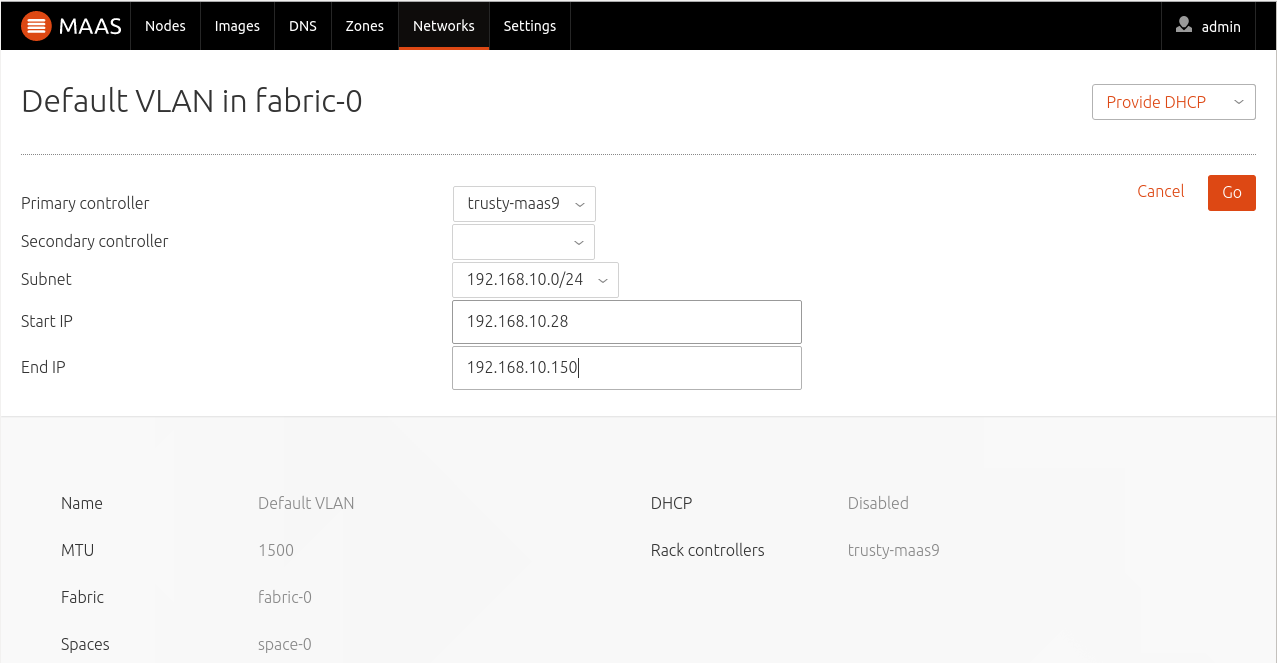
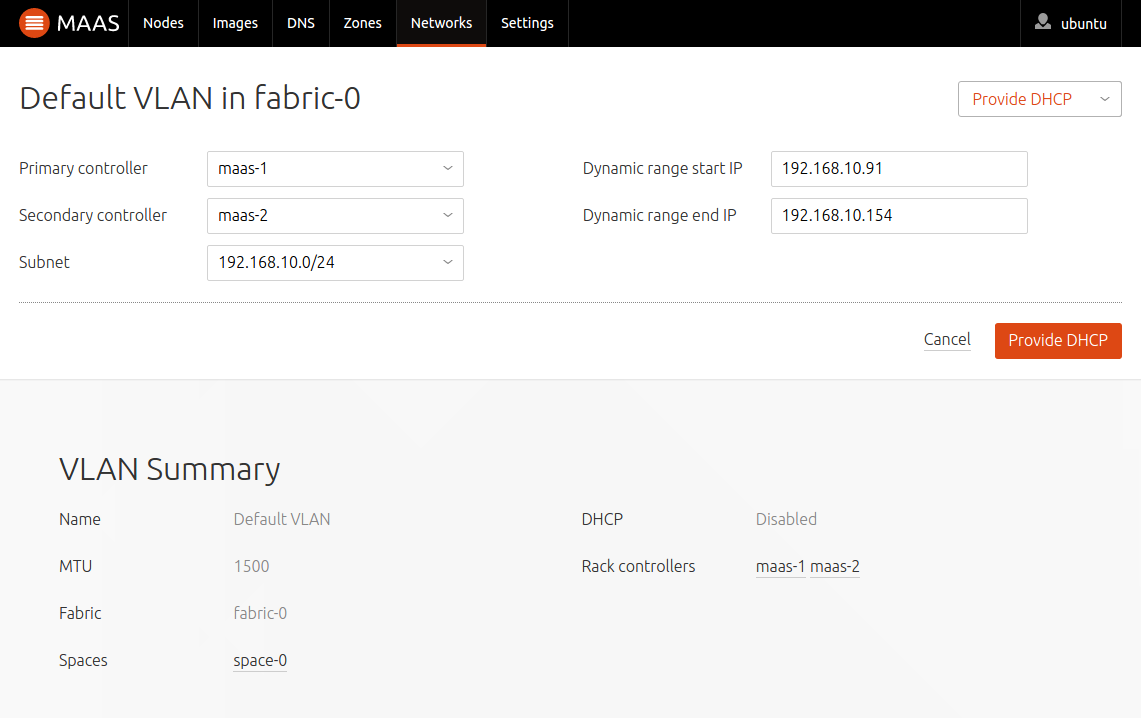
[r=mpontillo][bug=][author=blake-rouse] Document how to enable HA configuration.

diff --git a/docs/ha.rst b/docs/ha.rst
@@ -1,0 +1,286 @@
+.. -*- mode: rst -*-
+
+.. _ha:
+
+High Availability (HA) Configuration
+====================================
+
+MAAS 2.0+ supports high availability (HA) across its entire architecture. HA
+can be enabled at the rack controller level allowing the ability for
+controlling BMCs, providing DHCP, and deploying machines to span across
+multiple rack controllers. At the region controller level, HA can be provided
+for the API, WebUI, DNS, and APT proxy.
+
+
+Rack Controller HA
+------------------
+
+Rack controller HA is provided for BMCs out of the box. MAAS will
+automatically identify which rack controllers can communicate to which BMCs
+and pass BMC actions to the correct rack controllers.
+
+To provide HA for deploying machines, DHCP HA must be turned on. DHCP HA in
+MAAS allows a primary and a secondary DHCP server to run on the same VLAN. This
+allows a deploying machine to request an IP address from either DHCP server
+(primary first) for PXE booting. The responding rack controller will then
+handle PXE booting the machine and loading the required files to complete the
+deployment. All lease information will be replicated between the primary and
+secondary rack controller, allowing one rack controller to fail without
+interrupting MAAS operation.
+
+Enabling DHCP HA
+^^^^^^^^^^^^^^^^
+
+DHCP works at the VLAN level, providing interfaces connected to that VLAN the
+ability to get an IP address on a subnet. This requires a subnet be defined
+on the VLAN where DHCP will be enabled, along with a range of IPs that will be
+assigned to unknown interfaces (called the 'dynamic range'). Enabling DHCP HA
+is the same as enabling DHCP without HA; setting a secondary rack controller
+will turn DHCP HA on. Follow the instructions at :doc:`rack-configuration` to
+enable DHCP HA.
+
+
+Region Controller HA
+--------------------
+
+Region controller HA is more complicated, in that MAAS allows you to configure
+this in many different configurations. Any number of region controllers can
+be added to MAAS, as long as they connect to the same PostgreSQL database. The
+only state that is held in MAAS is in the database, allowing region controllers
+to be scaled up and scaled down at will.
+
+Initial Region Controller
+^^^^^^^^^^^^^^^^^^^^^^^^^
+
+The first step to enabling HA for the MAAS region controller is installing the
+``maas-region-controller`` package. This package configures everything for you
+to start using the MAAS region controller on one machine. It initializes a new
+database, runs the migrations, and sets up the default configuration files for
+the new MAAS region controller to run. ::
+
+    $ sudo apt update
+    $ sudo apt install maas-region-controller
+
+.. note::
+
+  This installs and configures the PostgreSQL database on the same machine as
+  the region controller. When possible, this is the recommended configuration.
+  MAAS requires database access to be fast, since all MAAS state (including
+  operating system images, which will be synchronized with each rack
+  controller).
+
+Enabling PostgreSQL HA
+^^^^^^^^^^^^^^^^^^^^^^
+
+MAAS stores all state information in the PostgreSQL database, so it is key to
+place this into an HA configuration. PostgreSQL supports many different HA
+configurations, but hot standby is recommended as it allows the secondary
+database to become the primary quickly and the MAAS region controller can
+quickly switch to using the secondary database server as the primary. For
+configuring hot standby, the following wiki provides a quick start guide on
+setting it up: `https://wiki.postgresql.org/wiki/Hot_Standby`_.
+
+.. _https://wiki.postgresql.org/wiki/Hot_Standby:
+  https://wiki.postgresql.org/wiki/Hot_Standby
+
+Extra Region Controller
+^^^^^^^^^^^^^^^^^^^^^^^
+
+Since this new region will not be setting up its own database, use the
+following packages to set up the new region controller::
+
+    maas-region-api maas-dns
+
+In order to add another region controller to MAAS, you will also need the
+*regiond.conf* from the initial region controller. This will allow the new
+region controller to connect to the same PostgreSQL database. You will want to
+adjust the database_host in the *regiond.conf* to point to the primary database
+for PostgreSQL.::
+
+    $ sudo apt update
+    $ sudo apt install maas-region-api maas-dns
+    $ sudo scp <ubuntu@initial-region>:/etc/maas/regiond.conf /etc/maas/regiond.conf
+    $ sudo maas-region local_config_set --database-host <postgresql-primary-ip>
+    $ sudo systemctl restart maas-regiond
+
+Now if you check the MAAS UI or the API, you will see that MAAS has another
+region controller. But one issue still exists: the ``bind9`` service will
+refuse to start. This is because both BIND and MAAS define some of the same
+options in their respective configuration files. Since BIND will not allow you
+to use the same option more than once, MAAS needs to migrate the options from
+the BIND configuration. ::
+
+    $ sudo maas-region edit_named_options --migrate-conflicting-options
+    $ sudo systemctl restart bind9
+
+After that, you should have another fully functioning MAAS region controller!
+The DNS configuration and proxy configuration across all region controllers
+will stay synced, and you have another server to access the MAAS WebUI and API
+endpoints.
+
+Load Balancing Between Regions (optional)
+^^^^^^^^^^^^^^^^^^^^^^^^^^^^^^^^^^^^^^^^^
+
+With multiple region controllers, there are several options for load balancing.
+One approach is to only use one region controller all the time, and fail over
+to another using a virtual IP (VIP). Another approach is to use a load-balancer
+and a VIP, to distribute the workload across all active region controllers.
+In this example, we will use ``haproxy`` to configure load balancing across the
+MAAS region controllers.
+
+First (on each region controller) ``apache2`` needs to be disabled. While the
+``maas-region-api`` package depends on ``apache2`` for its default
+configuration, it will conflict with ``haproxy`` (or any other load balancer
+running on port 80) if it is enabled. ::
+
+    $ sudo systemctl stop apache2
+    $ sudo systemctl disable apache2
+
+Now that ``apache2`` is disabled, ``haproxy`` can be installed and configured.
+You will want to change the <server-name> and <server-ip> in the proxy
+configuration below to match your infrastructure. ::
+
+    $ sudo apt install haproxy
+    $ sudo sh -c 'cat >>/etc/haproxy/haproxy.cfg <<EOL
+
+    frontend maas
+        bind    *:80
+        retries 3
+        option  redispatch
+        option  http-server-close
+        default_backend maas
+
+    backend maas
+        timeout server 30s
+        balance roundrobin
+        server localhost localhost:5240 check
+        server <server-name-1> <server-ip-1>:5240 check
+        server <server-name-2> <server-ip-2>:5240 check
+    EOL'
+    $ sudo systemctl restart haproxy
+
+.. note::
+
+  It is recommended to run a load-balancer on every region controller server
+  and place a VIP between the servers. This will ensure that the load is
+  balanced between the servers, and ensure that (if a failure occurs) the
+  VIP moves over to the another server (which could then distribute
+  requests to the remaining servers).
+
+VIP between the Regions
+^^^^^^^^^^^^^^^^^^^^^^^
+
+Whether you configured a load-balancer or not, a VIP (virtual IP) is needed.
+The VIP will be used by the rack controllers (and the deploying machines) to
+access the region controller API endpoint. In this example, we will show how to
+use ``keepalived`` to configure a VIP.
+
+You will need to adjust checks below, depending on if you are using
+``apache2``, or ``haproxy``. You will also need to configure the
+interface_name, priority, random_password, and the VIP in the configuration
+below. The priority needs to be between 1-255. Larger priority numbers
+indicate a greater preference for the server to claim the VIP. ::
+
+    $ sudo apt install keepalived
+    $ sudo modprobe ip_vs
+    $ sudo sh -c 'echo modprobe ip_vs >> /etc/modules'
+    $ sudo sh -c 'echo net.ipv4.ip_nonlocal_bind=1' > /etc/sysctl.d/60-keepalived-nonlocal.conf
+    $ sudo systemctl restart procps
+    $ sudo sh -c 'cat >>/etc/keepalived/keepalived.conf <<EOL
+
+    # Un-comment when using haproxy.
+    #vrrp_script chk_haproxy {
+    #    script "killall -0 haproxy"
+    #    interval 2
+    #}
+
+    # Un-comment when using apache2.
+    #vrrp_script chk_apache2 {
+    #    script "killall -0 apache2"
+    #    interval 2
+    #}
+
+    vrrp_script chk_named {
+        script "killall -0 named"
+        interval 2
+    }
+
+    vrrp_instance maas_region {
+        state MASTER
+        interface <interface_name>
+        priority <priority>
+        virtual_router_id 51
+
+        authentication {
+            auth_type PASS
+            auth_pass <random_password>
+        }
+
+        track_script {
+            # Un-comment when using haproxy
+            #chk_haproxy
+            # Un-comment when using apache2
+            #chk_apache2
+            chk_named
+        }
+
+        virtual_ipaddress {
+            <vip>
+        }
+    }'
+    $ sudo systemctl restart keepalived
+
+.. note::
+
+  If you are enabling this inside of a container, the host of the container
+  needs the ip_vs module loaded and the sysctl change. A restart of the
+  container is required once the change has been made in the host.
+
+Once ``keepalived`` has been configured you will want to adjust the
+MAAS_URL on all region controllers and rack controllers to point to that VIP.
+That will ensure that all clients and machines use that IP address for
+communication.
+
+On the rack controller's::
+
+    $ sudo maas-rack config --region-url http://<vip>/MAAS
+    $ sudo systemctl restart maas-rackd
+
+On the region controller's::
+
+    $ sudo maas-region local_config_set --maas-url http://<vip>/MAAS
+    $ sudo systemctl restart maas-regiond
+
+
+Deploying HA with Juju
+----------------------
+
+Now that you have an understanding of how to configure HA manually, it
+is possible to use Juju to deploy MAAS in an HA configuration. Using Juju
+allows you to quickly scale up or scale down the MAAS infrastructure in a
+configuration supported by the MAAS team.
+
+.. note::
+
+  Using Juju to deploy MAAS is not normally how Juju would be used.
+  Normally, you would first install MAAS, then use Juju to deploy services on
+  MAAS-managed machines. However, we can use Juju's manual provisioning
+  support to deploy MAAS to existing Ubuntu systems.
+
+In the following example, Juju is bootstrapped with manual provisioning,
+the machines intended to be used for MAAS services are added, and the services
+are deployed and linked together. Be sure to adjust the given numbers based
+on what you see in the "juju status" command. (See the Juju documentation
+for more details.) The following commands could be used to deploy MAAS::
+
+    $ juju bootstrap maas manual/<ip-of-server>
+    $ juju add-machine ssh:<ip-of-server>
+    ... add required machines ...
+    $ juju deploy postgresql --to 0
+    $ juju add-unit postgresql --to 1
+    $ juju deploy maas-region --to 0
+    $ juju add-unit maas-region --to 1
+    $ juju add-relation maas-region:db postgresql:db
+    $ juju deploy maas-rack --to 3
+    $ juju add-unit maas-rack --to 4
+    $ juju add-relation maas-region:rpc maas-rack:rpc

diff --git a/docs/rack-configuration.rst b/docs/rack-configuration.rst
@@ -12,7 +12,7 @@ may not be managed by MAAS.
 
 Managing a VLAN normally means that MAAS will server DHCP from the Rack
 Controller, for the purpose of providing IP address to machines that
-are being enlisted or commissioned. also, any other DHCP client that is
+are being enlisted or commissioned. Also, any other DHCP client that is
 on the VLAN will obtain a dynamic IP address from the MAAS DHCP server.
 
 **Do this only on a network that was set up with this in mind**. Enabling
@@ -44,8 +44,8 @@ Rack Controller interface connected to that VLAN. This is because:
    between the machine's subnet and MAAS' DHCP server.
 
 
-Rack Controller Registration
-----------------------------
+Registration
+------------
 
 If you install your first Rack Controller on the same system as the Region
 Controller, as is the case when you install the full "maas" ubuntu package,
@@ -85,8 +85,8 @@ of the MAAS Region Controller. Once entered, the Rack Controller
 configuration will be complete.
 
 
-Rack Controller Interface Management
-------------------------------------
+Interface Management
+--------------------
 
 MAAS automatically recognises the network interfaces on each Rack
 Controller.  Some (though not necessarily all) of these will be connected
@@ -119,8 +119,8 @@ it needs to provide DHCP for at least one subnet, by configuring the
 corresponding VLAN to which the Rack Controller is connected to.
 
 
-Providing DHCP Services
------------------------
+Providing DHCP + HA
+-------------------
 In order for MAAS to be able to manage machines on the network, and more
 specifically, in order to be able to enlist, commission and deploy machines
 it needs to provide and manage DHCP. As such, Rack Controller(s) can
@@ -145,8 +145,8 @@ range is to:
  This allows the machine to obtain IP addresses that will remain
  allocated to a machine throughout the rest of its deployment.
 
-Enabling a Rack Controller to provide DHCP on a VLAN
-^^^^^^^^^^^^^^^^^^^^^^^^^^^^^^^^^^^^^^^^^^^^^^^^^^^^
+Enabling a DHCP on a VLAN (optional HA)
+^^^^^^^^^^^^^^^^^^^^^^^^^^^^^^^^^^^^^^^
 As an example, we will configure MAAS to provide DHCP on a Rack
 Controller.
 
@@ -164,19 +164,23 @@ The second step is to create a dynamic range::
 
 The third, and last step is to enable DHCP on a VLAN. For this to be
 effective we need to at least select the Primary Rack controller that will
-provide DHCP. We can select a Secondary Rack controller if we are providing
-HA::
+provide DHCP::
 
  $ maas admin vlan update fabric-0 untagged dhcp_on=True primary_rack=node01
+
+If enabling DHCP HA is something you need for your MAAS deployment, then
+following operation would enable HA::
+
+ $ maas admin vlan update fabric-0 untagged dhcp_on=True primary_rack=node01 secondary_rack=node02
+
+Note that if you are enabling DHCP over the CLI, but the subnet doesn't have a
+Gateway IP defined, you can define the gateway using::
+
+  $ maas admin subnet update 192.168.10.0/24 gateway_ip=192.168.10.1
 
 You can also do the same configuration via the WebUI on the VLAN details page:
 
 .. image:: media/vlan_provide_dhcp.png
-
-Note that if you are enabling DHCP over the CLI, the subnet doesn't have a
-Gateway IP defined, you can do so with::
-
- $ maas admin subnet update 192.168.10.0/24 gateway_ip=192.168.10.1
 
 
 Multiple networks

diff --git a/docs/index.rst b/docs/index.rst
@@ -55,6 +55,7 @@ Setting up a MAAS server
    install
    configure
    rack-configuration
+   ha
    static-ips
    ipv6
    bootsources
